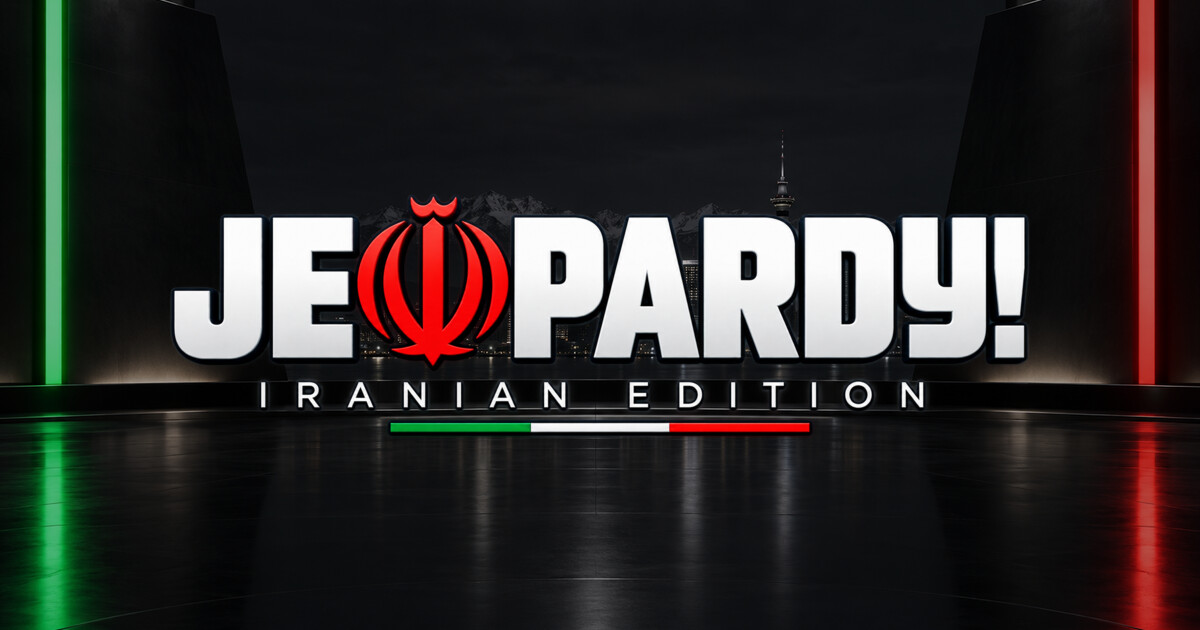
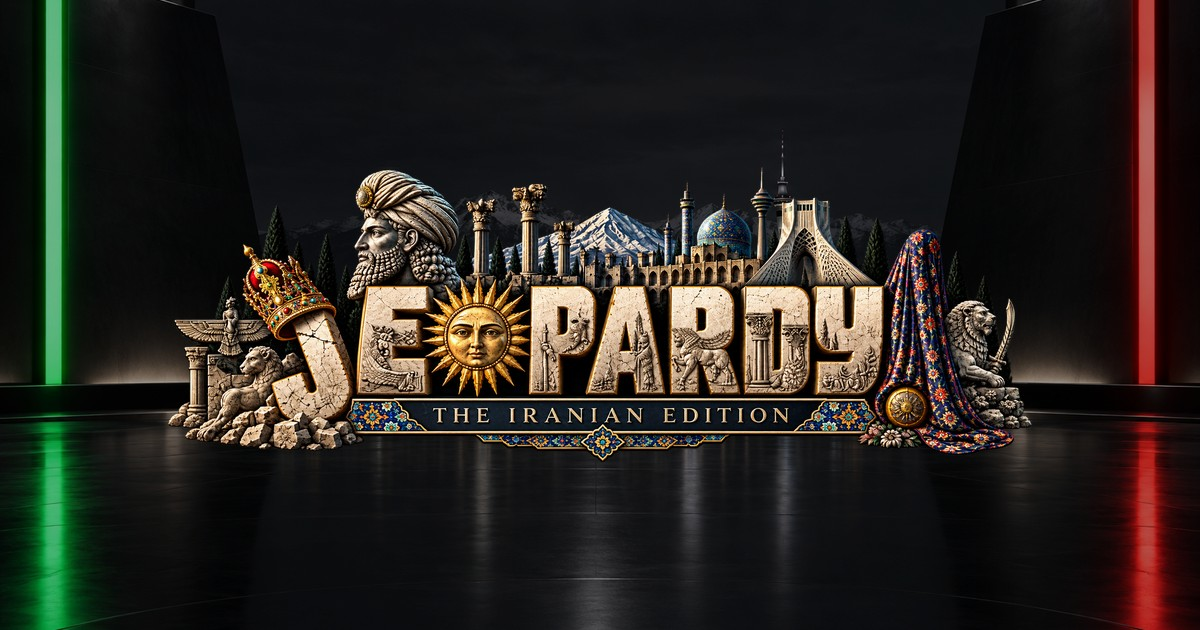
Replace the 1.0.11 builds in place, and freeze the tree they were cut from
The logo swap landed the art; the release trail still carried the old one.
`Versions/v1.0.11` kept the retired pack file and the old wordmark, so the
snapshot no longer described what shipped. Refreshed in place — 336 files to
335, the difference being the file that was retired — and it now diffs
file-for-file against `Web/`.

README's banner alt text said "The Iranian Pack"; the show does not use that
name and the banner no longer shows that art.

Changed region(s): [[0.1233, 0.2714, 0.8633, 0.7238]]

diff --git a/Versions/v1.0.11/index.html b/Versions/v1.0.11/index.html
@@ -10,7 +10,7 @@
 <link rel="icon" href="assets/icon-512.png?v=20260915-globe-22">
 <meta property="og:title" content="JEOPARDY! — Iranian Edition">
 <meta property="og:description" content="An Iranian-history edition of the quiz show.">
-<meta property="og:image" content="assets/og.jpg">
+<meta property="og:image" content="assets/og.jpg?v=20260918-sunmark-1">
 <link rel="stylesheet" href="styles.css?v=20260918-no-cat-sub">
 <!-- One block per course: the skin here, and — at the foot of the body, in the same
      order — its two banks and its registration. Adding a course under `courses/`
@@ -92,7 +92,7 @@
              fetches for its own lockup and its main disc: one file, one fetch,
              whoever asks. -->
         <img class="boot-logo" id="boot-logo"
-             src="assets/logo-wordmark.png?v=20260915-globe-22"
+             src="assets/logo-wordmark.png?v=20260918-sunmark-1"
              alt="JEOPARDY! Iranian Edition">
         <div class="circle-frame boot-globe" id="boot-globe">
           <img class="circle-art" id="boot-globe-art"
@@ -110,8 +110,9 @@
 
   <!-- ── Front door ────────────────────────────────────────── -->
   <!-- The umbrella screen, and the one the build opens on. It carries the
-       Iranian Pack lockup, and it is the only screen that does: everything
-       inside the show wears `logo-wordmark.png`, which is the plain lettering.
+       same `logo-wordmark.png` the rest of the show wears — one logo, on the
+       front door and inside the game both, and the same file the itch cover and
+       the README banner are cut from.
        `.brand-wordmark` is deliberately not
        `.logo`, which `course.js` re-skins on every edition change, and the
        chooser's labels below are edition data read live rather than i18n keys a
@@ -127,8 +128,8 @@
 
       <div class="center">
         <div class="brand-lockup">
-          <img class="brand-wordmark" src="assets/logo-iranian-pack.png?v=20260916-pack-24"
-               alt="JEOPARDY! The Iranian Pack">
+          <img class="brand-wordmark" src="assets/logo-wordmark.png?v=20260918-sunmark-1"
+               alt="JEOPARDY! The Iranian Edition">
         </div>
         <p class="tagline" data-i18n-html="front.tagline">Sure, you say you know Iranian history. So does my uncle, my Snapp driver, and the guy I met at the bus stop — and I don’t even take the bus.<br>
           Let’s put that to the test.</p>
@@ -196,7 +197,7 @@
       </nav>
 
       <div class="center">
-        <img class="logo logo-hero" src="assets/logo-wordmark.png?v=20260915-globe-22"
+        <img class="logo logo-hero" src="assets/logo-wordmark.png?v=20260918-sunmark-1"
              alt="JEOPARDY! Iranian Edition">
         <p class="tagline" data-i18n-html="splash.tagline">Because you don’t know your own history<br>
           and it’s time somebody told you so.</p>
@@ -276,7 +277,7 @@
       </nav>
 
       <div class="center">
-        <img class="logo logo-lobby" src="assets/logo-wordmark.png?v=20260915-globe-22"
+        <img class="logo logo-lobby" src="assets/logo-wordmark.png?v=20260918-sunmark-1"
              alt="JEOPARDY! Iranian Edition">
         <p class="tagline" data-i18n-html="lobby.tagline">A country full of experts.<br>
           Let’s find out how much of that survives.</p>
@@ -537,7 +538,7 @@
     <div class="plate plate-board">
 
       <header class="board-top">
-        <img class="logo logo-board" src="assets/logo-wordmark.png?v=20260915-globe-22" alt="JEOPARDY! Iranian Edition">
+        <img class="logo logo-board" src="assets/logo-wordmark.png?v=20260918-sunmark-1" alt="JEOPARDY! Iranian Edition">
         <div class="board-rounds">
           <span class="flagrule flagrule-board" aria-hidden="true"></span>
           <nav class="rounds" id="round-tabs" data-i18n-aria="board.round"></nav>
@@ -592,7 +593,7 @@
     <div class="plate plate-clue">
 
       <header class="clue-bar">
-        <img class="logo logo-clue" src="assets/logo-wordmark.png?v=20260915-globe-22" alt="">
+        <img class="logo logo-clue" src="assets/logo-wordmark.png?v=20260918-sunmark-1" alt="">
         <span class="clue-cat" id="clue-category"></span>
         <span class="clue-value" id="clue-value"></span>
       </header>
@@ -617,7 +618,7 @@
     <div class="plate plate-clue">
 
       <header class="clue-bar">
-        <img class="logo logo-clue" src="assets/logo-wordmark.png?v=20260915-globe-22" alt="">
+        <img class="logo logo-clue" src="assets/logo-wordmark.png?v=20260918-sunmark-1" alt="">
         <span class="clue-cat" id="wager-category"></span>
         <span class="clue-value" id="wager-value"></span>
       </header>

diff --git a/Versions/v1.0.11/styles.css b/Versions/v1.0.11/styles.css
@@ -2103,10 +2103,10 @@ html[data-screen="front"] .stage-bg::after { opacity: 0.22; }
 /* ── The lockup ───────────────────────────────────────────────
    The raster wordmark, the same `assets/logo-wordmark.png` the title card
    wears. Set in type it was a hand-cut imitation — a plain O where the mark has
-   the red tulip, "IRANIAN EDITION" retyped beneath a flag rule the mark already
-   draws — so the door spent its loudest line saying the logo's words in a font
-   that is not the logo. The mark carries the emblem, the film and the flag in
-   one object; nothing needs to be restated under it.
+   the sun, "IRANIAN EDITION" retyped beneath a band the mark already draws — so
+   the door spent its loudest line saying the logo's words in a font that is not
+   the logo. The mark carries the letterform, the skyline and the band in one
+   object; nothing needs to be restated under it.
 
    No text-shadow on the image, and no second drop-shadow: the PNG has its own
    bevel and its own dark contact shadow, and stacking another under that doubles

diff --git a/Versions/v1.0.11/editions.js b/Versions/v1.0.11/editions.js
@@ -142,7 +142,7 @@ window.registerEdition({
      repainted hero would otherwise never reach anyone who had already seen the old
      one. Version the path the same way `index.html` versions the scripts. */
   hero: 'assets/hero-main.png?v=20260915-globe-22',
-  logo: 'assets/logo-wordmark.png?v=20260915-globe-22',
+  logo: 'assets/logo-wordmark.png?v=20260918-sunmark-1',
   /* Her, in the same shape a course declares its professor and its institution:
      an edition's own copy in both languages, not an i18n key. This is what the
      title card prints on MAIN's imprint — see the course for the other half. */

diff --git a/C3PO_LOG.md b/C3PO_LOG.md
@@ -7559,3 +7559,49 @@ best-scoring file within a point of it that does takes the check instead. Amanat
 Universe* is in the corpus twice — a 1997 scan that prints folios, and a 2008 reflow that
 carries no page number anywhere — and calibrated on the reflow the tool invented a "+70 offset"
 and checked every one of that book's pages against a number absent from the text. Committed.
+
+## 2026-09-18 — One logo for the whole show, and the release replaced in place
+
+He sent one picture and asked for it on the front door and inside the show both, with the
+course marks untouched, and asked that the published release be replaced rather than a new
+version cut. So 1.0.11 stays 1.0.11; only its bytes moved.
+
+`Web/assets/logo-wordmark.png` is now that picture — JEOPARDY! in cracked limestone, a gold sun
+for the *O*, the crown and the lion off to the left, the Khamsa and Tehran's skyline across the
+top, THE IRANIAN EDITION set into a band of Persian tilework — and it is the only main wordmark
+there is. `logo-iranian-pack.png`, which the front door had been wearing, went to `~/.Trash`.
+The door and the show wore two different pictures of the same thing; with one picture the second
+file was 1.5 MB that nothing loaded and that still shipped in the zip, the `.app`, the `.ipa`
+and the `.apk`, reachable only by grepping for the name.
+
+`.brand-wordmark` stayed a class of its own, separate from `.logo`, because `course.js` re-skins
+`.logo` on every edition change and the front door has to stay MAIN-branded. It now carries
+`logo-wordmark.png` at the same tag as everything else repainted this round, `?v=20260918-sunmark-1`.
+
+Three things cut from the retired file by name and would have kept the old art silently:
+`Web/assets/og.jpg`, `.github/assets/logo-banner.png`, `.github/assets/itch-cover.png`. The
+first is rebuilt by a new `Tools/make_og_card.py` — the lockup over `stage-backdrop.png`, 1200×630,
+because the card is 1.9:1 and the lockup 2.9:1, so a crop would take the first and last letters of
+JEOPARDY! off. The other two by the tools that already existed, repointed. The README's and the
+release note's alt text both said "The Iranian Pack", which is not a name the show uses; both now
+say The Iranian Edition. `og:image` got a cache tag, since a repainted picture at the same URL is
+a picture the unfurlers will not re-fetch.
+
+**Nothing else was repainted, and that was checked rather than assumed.** The three course PNGs
+inside the Android apk before and after are the same bytes (1575637, 1918160, 1844985). The app
+icon was left alone deliberately: `App/Resources/icon-master.png` is a purpose-built square
+1254×1254 J!/emblem mark, and the new art is 2.93:1 and will not sit in a square. Read at
+`.logo-clue`'s 133×45 the new mark still resolves — busy, not mush — so nothing was enlarged.
+
+**The release was rebuilt rather than re-issued.** `build_release.sh --universal`, `build_ipa.sh`
+(its Web-tree diff came back in step, staged 1.0.11/1011) and `./gradlew :app:assembleRelease`,
+then the Mac zip re-cut by hand with `ditto -c -k --sequesterRsrc --keepParent`, which is still
+the only packaging these zips have. `Versions/v1.0.11` was refreshed in place by rsync: 336 files
+to 335, the difference being the retired file, and it diffs file-for-file against `Web/`. The
+superseded zip and apk are in `~/.Trash/1.0.11-old-logo/`; the old wordmark is still in git at
+`9a8a401`.
+
+The three GitHub assets were re-uploaded to the existing `v1.0.11` release with `--clobber` and
+its body replaced from `dist/RELEASE-v1.0.11.md`; the published sizes now match `dist/` to the
+byte. Uploading over a published release is not a thing to do unasked — it was asked for in
+those words.

diff --git a/README.md b/README.md
@@ -1,4 +1,4 @@
-![JEOPARDY! — The Iranian Pack](.github/assets/logo-banner.png)
+![JEOPARDY! — The Iranian Edition](.github/assets/logo-banner.png)
 
 # JEOPARDY! — Iranian Edition
 
